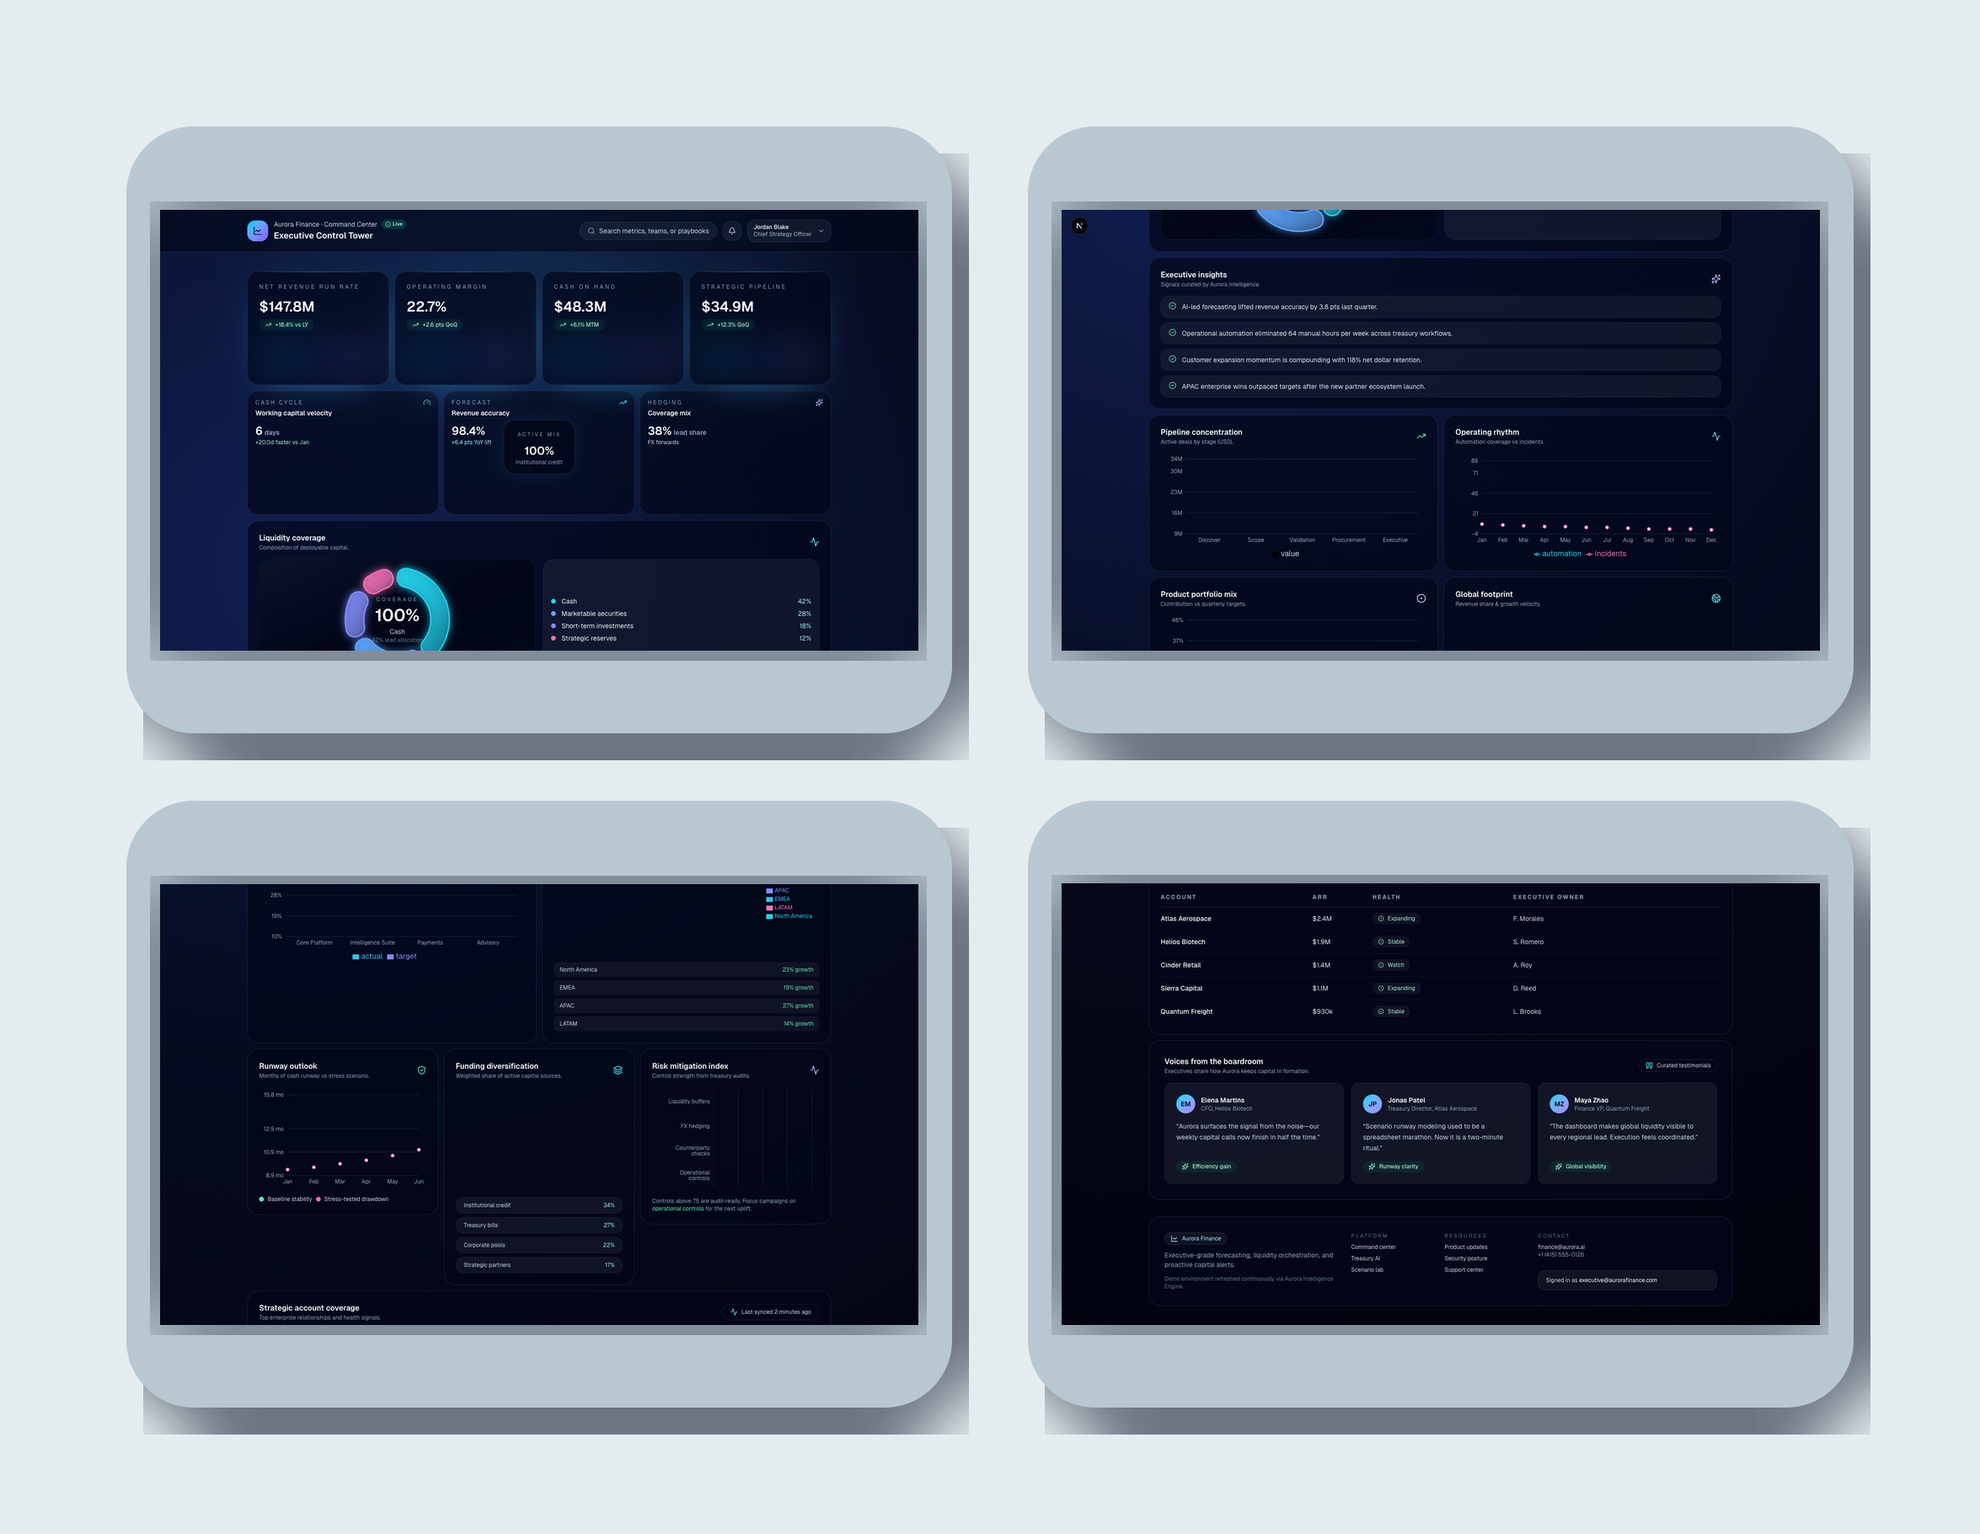
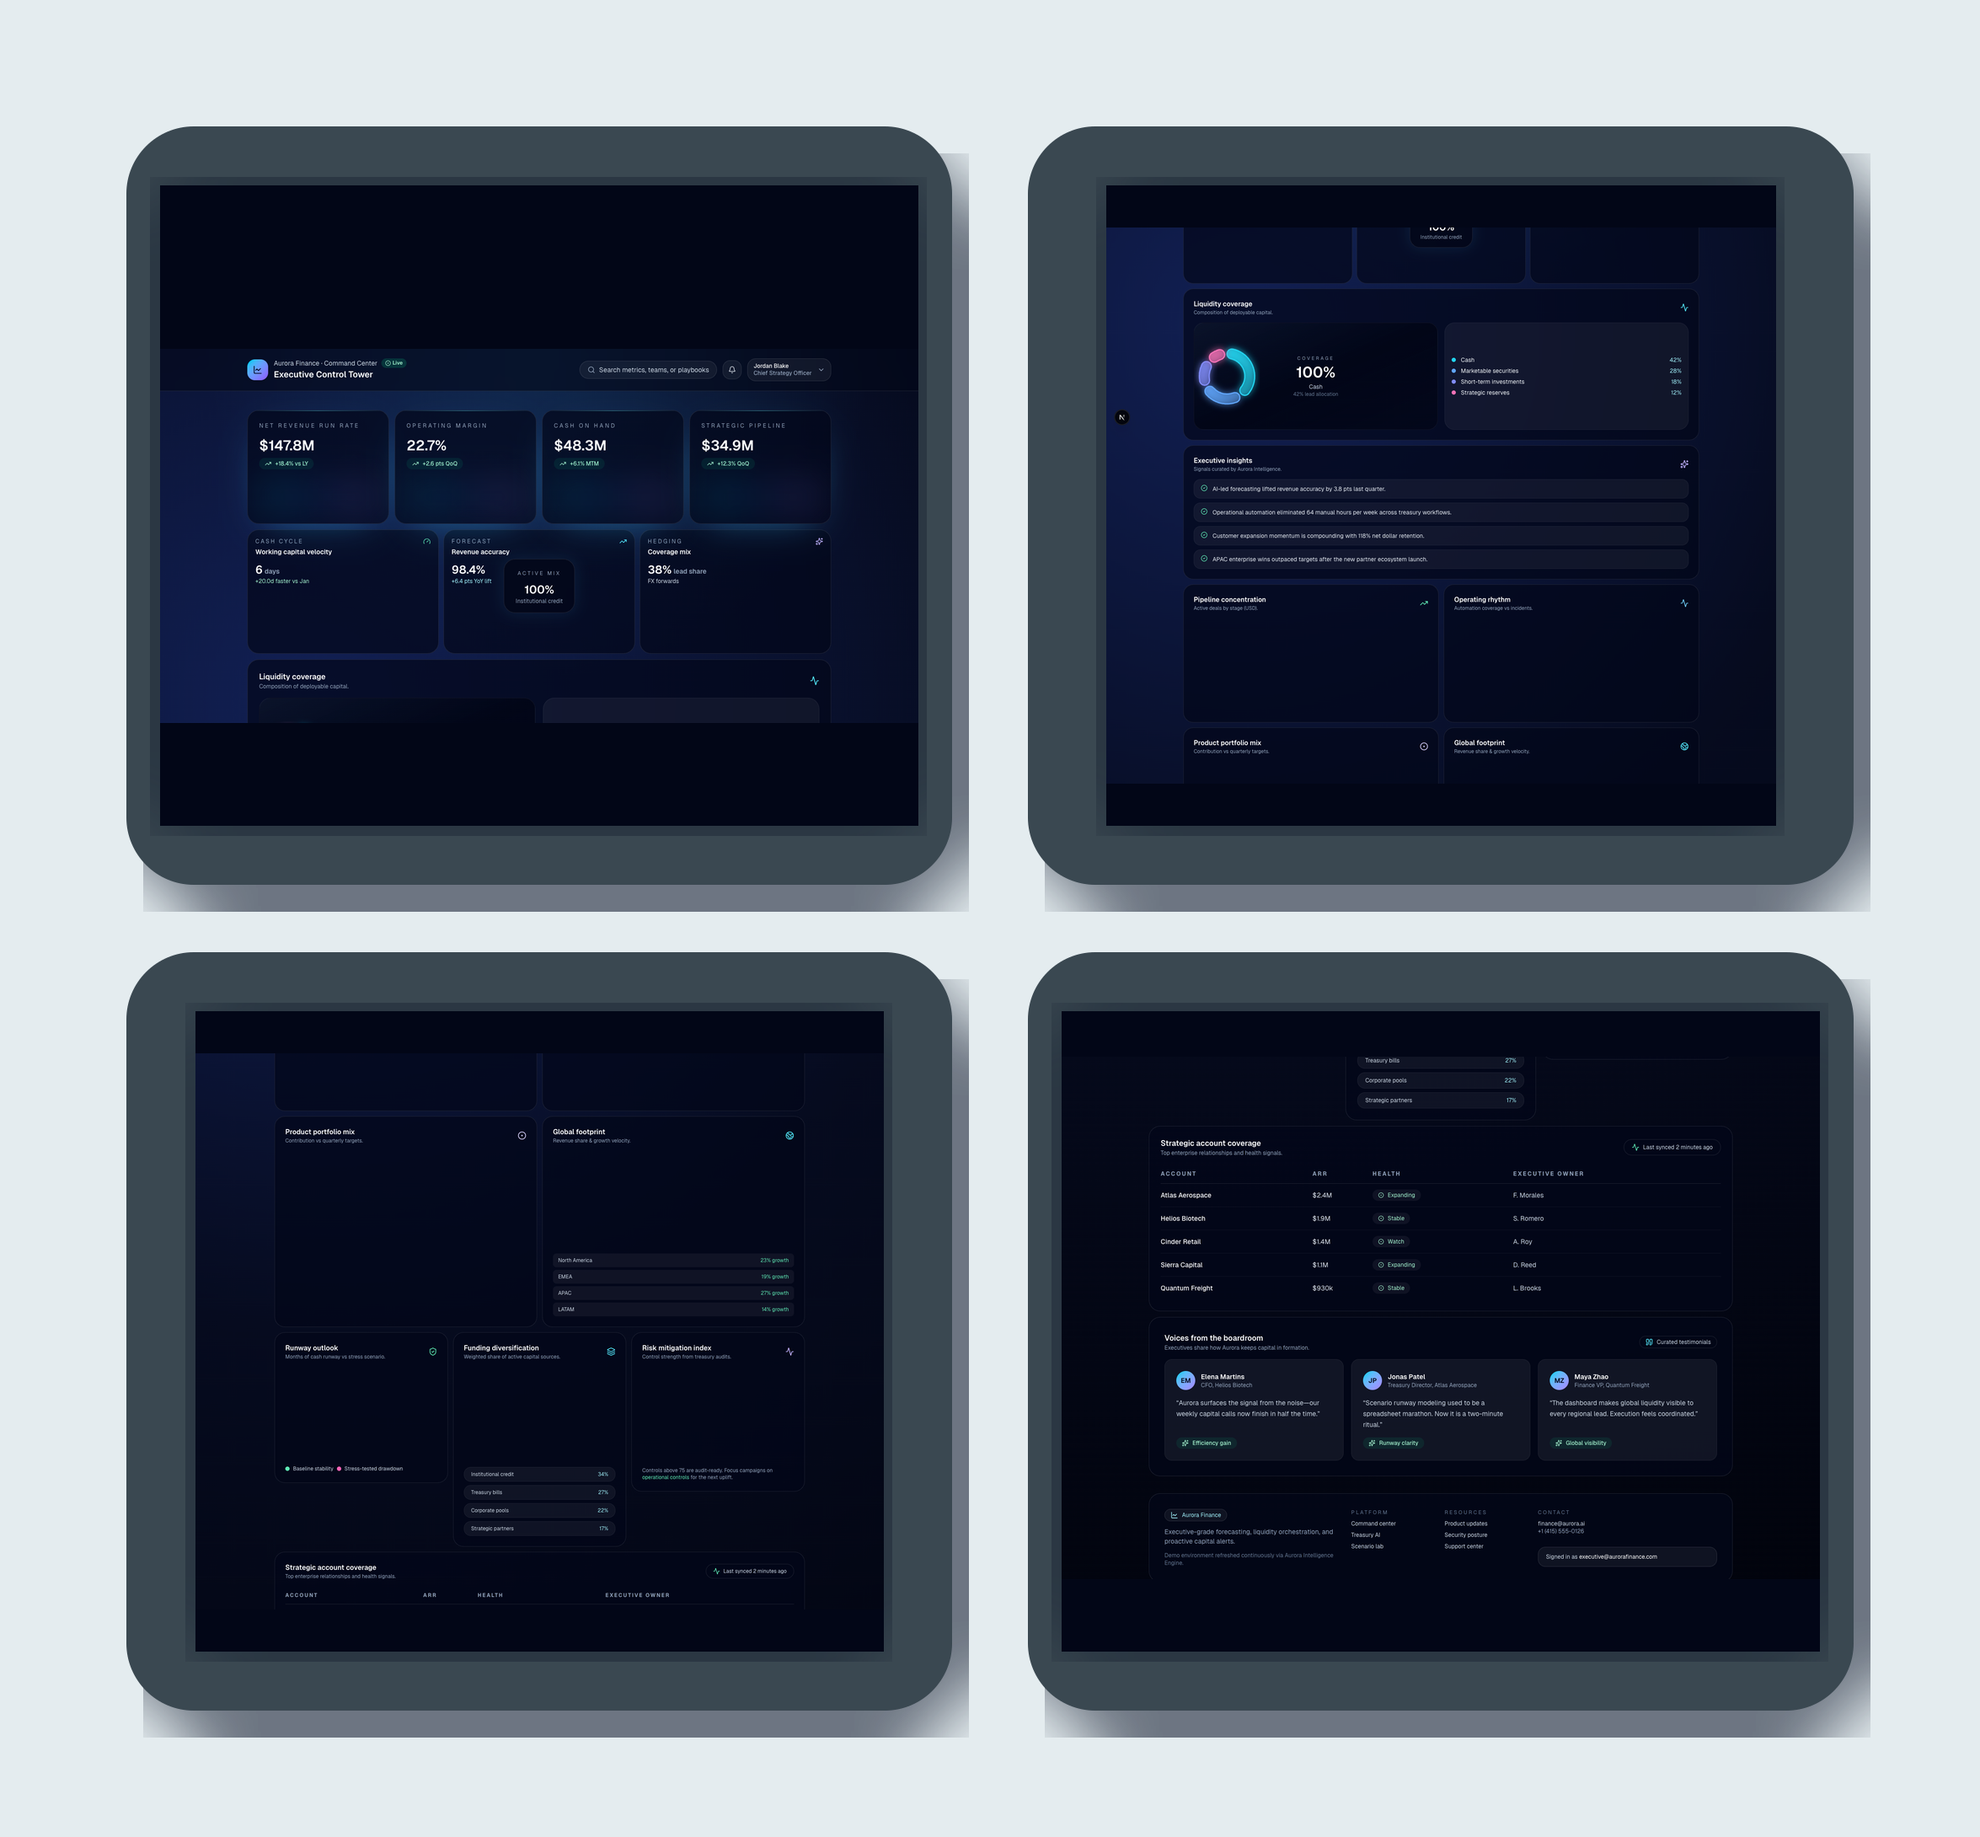
feat: enhance Dribbble asset generation with section-aware segmentation and improved collage layout

diff --git a/scripts/generate-dribbble-assets.js b/scripts/generate-dribbble-assets.js
@@ -4,9 +4,9 @@
  * Automated Dribbble asset generator.
  *
  * 1. Boots the Aurora Finance experience, signs in with the executive demo user, and
- *    captures a full-page screenshot of the dashboard using Puppeteer.
- * 2. Splits the screenshot into four equal-height segments and composes them into a 2x2 collage
- *    with soft framing using Sharp—matching the Dribbble reference layout.
+ *    captures a high-resolution full-page screenshot of the dashboard using Puppeteer.
+ * 2. Dynamically groups contiguous sections so charts are not cut in half, slices four segments,
+ *    and composes them into a 2x2 collage with soft framing using Sharp—matching the Dribbble reference layout.
  *
  * The script expects the application to be running (default: http://localhost:3000).
  *
@@ -102,34 +102,131 @@ async function capturePageSegments(page) {
     throw new Error("Unable to determine dimensions for the full-page screenshot.");
   }
 
-  const segmentHeight = Math.floor(height / SEGMENT_COUNT);
-  const segments = [];
+  const { sections, pageHeight } = await page.evaluate(() => {
+    const pad = 36;
+    const result = [];
+    const header = document.querySelector("header");
+    if (header) {
+      const rect = header.getBoundingClientRect();
+      const top = Math.max(0, window.scrollY + rect.top - pad);
+      const bottom = window.scrollY + rect.bottom + pad;
+      result.push({
+        top,
+        bottom,
+        height: bottom - top,
+      });
+    }
 
-  let currentTop = 0;
-  for (let index = 0; index < SEGMENT_COUNT; index += 1) {
-    const remainingHeight = height - currentTop;
-    const sliceHeight = index === SEGMENT_COUNT - 1 ? remainingHeight : segmentHeight;
+    document.querySelectorAll("main > section").forEach((section) => {
+      const rect = section.getBoundingClientRect();
+      const top = Math.max(0, window.scrollY + rect.top - pad);
+      const bottom = window.scrollY + rect.bottom + pad;
+      result.push({
+        top,
+        bottom,
+        height: bottom - top,
+      });
+    });
+
+    return {
+      sections: result,
+      pageHeight: document.body.scrollHeight,
+    };
+  });
+
+  if (!sections.length) {
+    throw new Error("Failed to derive section metrics for segmentation.");
+  }
+
+  const heights = sections.map((section) => section.height);
+  const prefix = [0];
+  for (const h of heights) {
+    prefix.push(prefix[prefix.length - 1] + h);
+  }
+  const targetHeight = prefix[prefix.length - 1] / SEGMENT_COUNT;
+
+  const dp = Array.from({ length: SEGMENT_COUNT + 1 }, () =>
+    Array(sections.length + 1).fill(Number.POSITIVE_INFINITY),
+  );
+  const cut = Array.from({ length: SEGMENT_COUNT + 1 }, () =>
+    Array(sections.length + 1).fill(-1),
+  );
+  dp[0][0] = 0;
+
+  for (let group = 1; group <= SEGMENT_COUNT; group += 1) {
+    for (let end = group; end <= sections.length; end += 1) {
+      for (let start = group - 1; start <= end - 1; start += 1) {
+        const groupHeight = prefix[end] - prefix[start];
+        const cost = Math.pow(groupHeight - targetHeight, 2);
+        const candidate = dp[group - 1][start] + cost;
+        if (candidate < dp[group][end]) {
+          dp[group][end] = candidate;
+          cut[group][end] = start;
+        }
+      }
+    }
+  }
+
+  if (!Number.isFinite(dp[SEGMENT_COUNT][sections.length])) {
+    throw new Error("Failed to compute section partition for collage slicing.");
+  }
+
+  const boundaries = [];
+  let end = sections.length;
+  for (let group = SEGMENT_COUNT; group >= 1; group -= 1) {
+    const start = cut[group][end];
+    if (start < 0) {
+      throw new Error("Invalid partition state during backtracking.");
+    }
+    boundaries.push({ start, end });
+    end = start;
+  }
+  boundaries.reverse();
+
+  const groups = boundaries.map(({ start, end: endIndex }) => ({
+    top: sections[start].top,
+    bottom: sections[endIndex - 1].bottom,
+  }));
+
+  const scaleY = height / pageHeight;
+  const segments = groups.map((group, index) => {
+    const padTop = index === 0 ? 180 : 110;
+    const padBottom = index === SEGMENT_COUNT - 1 ? 180 : 110;
+    const cssTop = Math.max(0, group.top - padTop);
+    const cssBottom = Math.min(pageHeight, group.bottom + padBottom);
+    const cssHeight = cssBottom - cssTop;
+    const extractTop = Math.max(0, Math.floor(cssTop * scaleY));
+    const extractHeight = Math.max(
+      1,
+      Math.min(
+        height - extractTop,
+        Math.ceil(cssHeight * scaleY),
+      ),
+    );
     const segmentPath = path.join(SCREENSHOT_DIR, `segment-${index + 1}.png`);
 
-    await baseImage
-      .clone()
-      .extract({
-        left: 0,
-        top: currentTop,
-        width,
-        height: sliceHeight,
-      })
-      .toFile(segmentPath);
-
-    segments.push({
+    return {
       path: segmentPath,
       index,
       row: Math.floor(index / 2),
       col: index % 2,
-    });
+      extract: {
+        left: 0,
+        top: extractTop,
+        width,
+        height: extractHeight,
+      },
+    };
+  });
 
-    currentTop += sliceHeight;
-  }
+  await Promise.all(
+    segments.map((segment) =>
+      baseImage
+        .clone()
+        .extract(segment.extract)
+        .toFile(segment.path),
+    ),
+  );
 
   return { segments, fullPagePath };
 }
@@ -169,10 +266,10 @@ async function createPanelShadow(width, height, radius, color) {
 
 async function createCollage(segments) {
   const panelWidth = 980;
-  const panelHeight = 720;
+  const panelHeight = 900;
   const panelRadius = 80;
   const panelPaddingX = 40;
-  const panelPaddingY = 60;
+  const panelPaddingY = 70;
   const gapX = 90;
   const gapY = 80;
   const marginX = 150;
@@ -193,7 +290,7 @@ async function createCollage(segments) {
   const composites = [];
   const shadowColor = { r: 14, g: 23, b: 42, alpha: 0.55 };
   const shadowOffset = { x: 20, y: 32 };
-  const panelColor = "#b9c8d0";
+  const panelColor = "#3a4851";
 
   for (const segment of segments) {
     const left = marginX + segment.col * (panelWidth + gapX);
@@ -211,25 +308,53 @@ async function createCollage(segments) {
       throw new Error(`Unable to read dimensions for ${segment.path}`);
     }
 
-    const maxInnerWidth = panelWidth - panelPaddingX * 2;
-    const maxInnerHeight = panelHeight - panelPaddingY * 2;
+    const innerWidth = panelWidth - panelPaddingX * 2;
+    const innerHeight = panelHeight - panelPaddingY * 2;
+    const desiredTopMargin = segment.index === 0 ? 80 : 50;
+    const desiredBottomMargin = segment.index === SEGMENT_COUNT - 1 ? 80 : 50;
+    const reservedMargin = desiredTopMargin + desiredBottomMargin;
+    const targetHeight = Math.max(320, innerHeight - reservedMargin);
 
     const resizedBuffer = await image
       .resize({
-        width: maxInnerWidth,
-        height: maxInnerHeight,
+        width: innerWidth,
+        height: targetHeight,
         fit: "inside",
         withoutEnlargement: true,
       })
       .png()
       .toBuffer();
 
-    const resizedMeta = await sharp(resizedBuffer).metadata();
-    const cardWidth = resizedMeta.width || maxInnerWidth;
-    const cardHeight = resizedMeta.height || maxInnerHeight;
+    const resizedMetaRaw = await sharp(resizedBuffer).metadata();
+    const actualHeight = resizedMetaRaw.height || targetHeight;
+    const availableSlack = Math.max(0, innerHeight - actualHeight);
+    let extraTop = 0;
+    let extraBottom = 0;
+    if (availableSlack > 0) {
+      const ratioTop =
+        reservedMargin > 0 ? desiredTopMargin / reservedMargin : 0.5;
+      extraTop = Math.round(availableSlack * ratioTop);
+      extraBottom = availableSlack - extraTop;
+    }
 
-    const cardLeft = left + panelPaddingX + Math.round((maxInnerWidth - cardWidth) / 2);
-    const cardTop = top + panelPaddingY + Math.round((maxInnerHeight - cardHeight) / 2);
+    const extendedBuffer = await sharp(resizedBuffer)
+      .extend({
+        top: extraTop,
+        bottom: extraBottom,
+        left: 0,
+        right: 0,
+        background: "#020617",
+      })
+      .toBuffer();
+
+    const resizedMeta = await sharp(extendedBuffer).metadata();
+    const cardWidth = resizedMeta.width || innerWidth;
+    const cardHeight = resizedMeta.height || innerHeight;
+
+    const horizontalOffset = Math.max(0, Math.round((innerWidth - cardWidth) / 2));
+    const verticalOffset = Math.max(0, Math.round((innerHeight - cardHeight) / 2));
+    const cardLeft = left + panelPaddingX + horizontalOffset;
+    const cardTop = top + panelPaddingY + verticalOffset;
 
     const cardShadow = await createPanelShadow(cardWidth + 22, cardHeight + 22, 42, {
       r: 15,
@@ -244,7 +369,7 @@ async function createCollage(segments) {
     });
 
     composites.push({
-      input: resizedBuffer,
+      input: extendedBuffer,
       left: cardLeft,
       top: cardTop,
     });

diff --git a/README.md b/README.md
@@ -53,7 +53,7 @@ src/
 
 ### Creating Dribbble-ready imagery
 1. Start the app locally with `pnpm dev` so it is available at `http://localhost:3000` (or supply `APP_URL`).
-2. Run `pnpm dribbble:capture`. Puppeteer signs in with the executive demo account, captures a full-page screenshot, and slices it into four equal segments saved under `dribbble-assets/screenshots/`.
+2. Run `pnpm dribbble:capture`. Puppeteer signs in with the executive demo account, captures a full-page screenshot, and slices it into four section-aware segments saved under `dribbble-assets/screenshots/`.
 3. The script also outputs `dribbble-assets/dribbble-collage.png`, a 2×2 collage with soft framing that mirrors the reference layout—ready to share or tweak further.
 
 ## Notes
